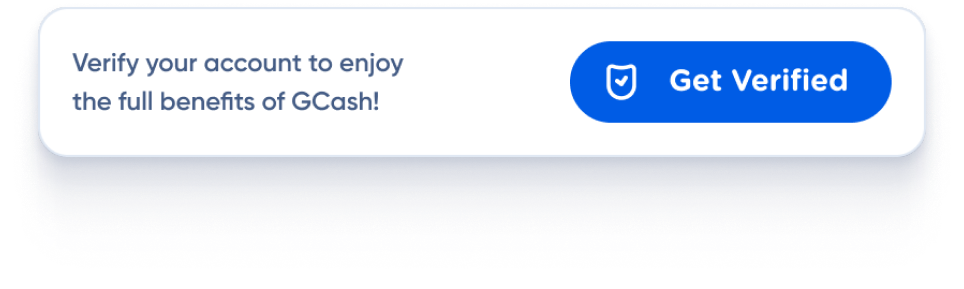
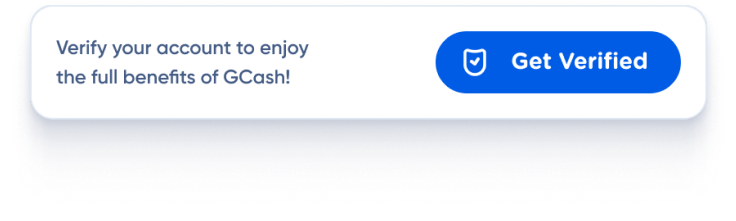
Updated section 3
Added z-index and re import asset

diff --git a/sources/sass/page/page-parts/page-template/_get-started.scss b/sources/sass/page/page-parts/page-template/_get-started.scss
@@ -195,7 +195,7 @@
 	}
 
 	.section-3-img-2 {
-		width: calc(300px + 40px);
+		width: calc(300px + 50px);
 		transform: translate(-50%, 86px);
 	}
 
@@ -219,6 +219,7 @@
 
 	.get-started_message-bubble.-get-verified {
 		transform: translate(70px, -3px);
+		z-index: 999;
 	}
 
 	.section-3-img-1 {
